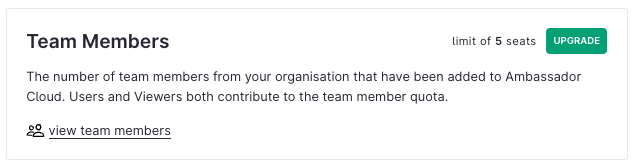
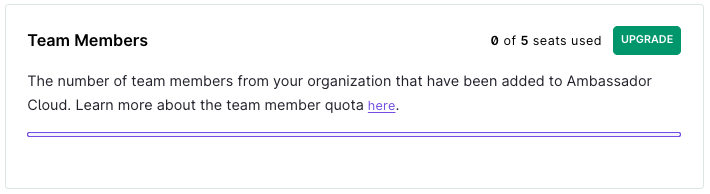
(from getambassador.io) Replace email only with business hours in plan suscription (#2379)
* change email only with business hours

* update images and info

* replace image

diff --git a/docs/cloud/latest/subscriptions/howtos/manage-my-subscriptions.md b/docs/cloud/latest/subscriptions/howtos/manage-my-subscriptions.md
@@ -73,7 +73,7 @@ Once you have identified a more suitable subscription plan, click on **Buy Now**
 
 ### Example
 
-For example, on the subscription page the team member quota indicates that you have up to 10 seats available. If you reach the limit, you can either release one seat, or **upgrade** your plan to increase the limit.
+For example, on the subscription page the team member quota indicates that you have up to 5 seats available. If you reach the limit, you can either release one seat, or **upgrade** your plan to increase the limit.
 
   <p align="center">
     <img src="../../images/team-members-quota.png" width="600" alt="Upgrade team members" />
